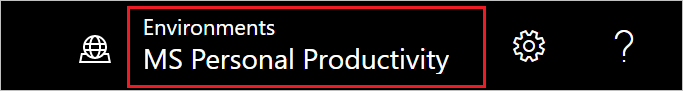
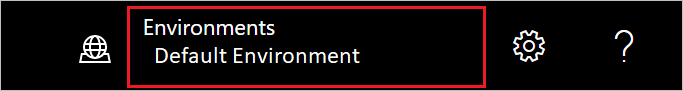
update image and title

Changed region(s): [[0.2152, 0.5055, 0.6764, 0.7912], [0.6149, 0.7912, 0.6457, 0.8132]]

diff --git a/articles/environments-overview-maker.md b/articles/environments-overview-maker.md
@@ -22,7 +22,7 @@ search.audienceType:
   - flowmaker
   - enduser
 ---
-# Choosing an environment
+# Learn about Power Automate environments
 
 This article introduces you to Power Automate **environments** in which you can create, and securely isolate your flows, gateways, connections, and other resources.
 
